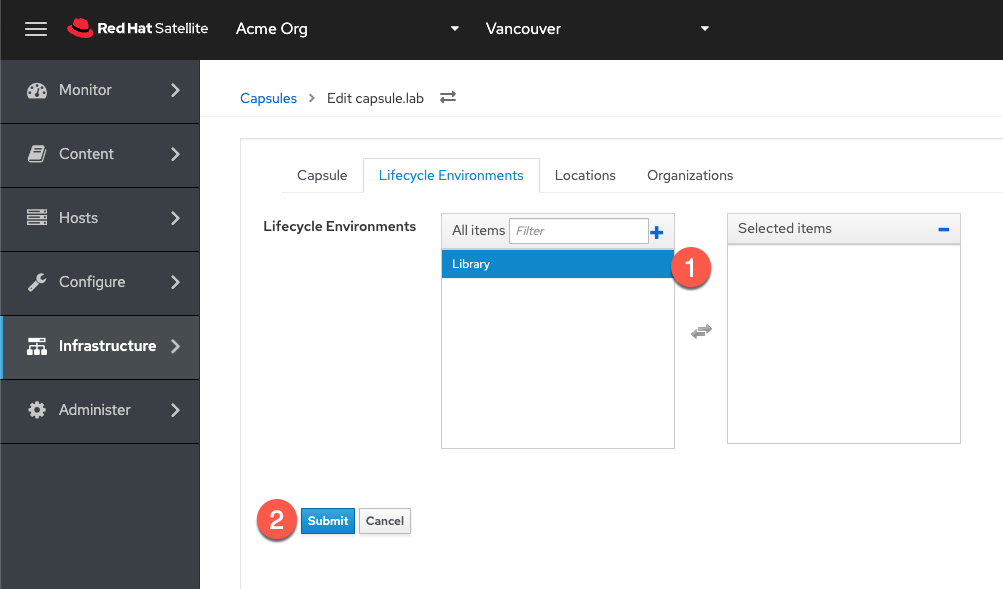
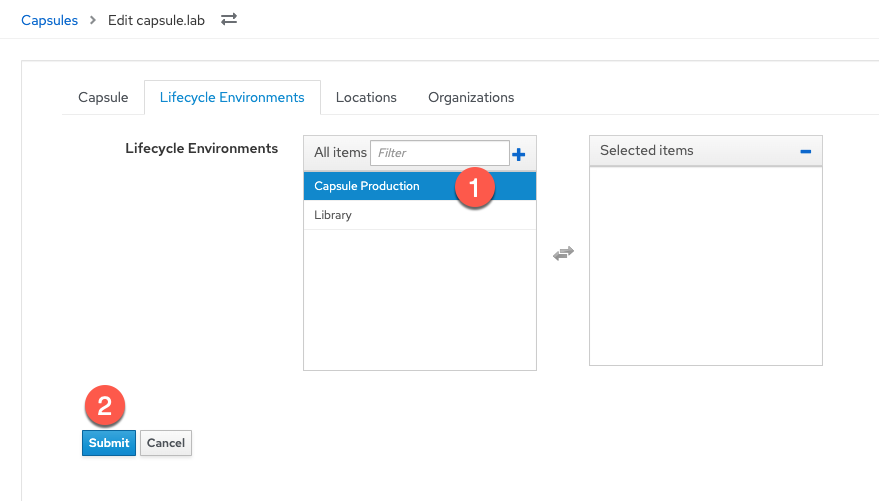
updates

diff --git a/satellite-advanced-testing/04-capsule/assignment.md b/satellite-advanced-testing/04-capsule/assignment.md
@@ -25,14 +25,14 @@ tabs:
   url: https://rhel1.${_SANDBOX_ID}.instruqt.io:9090
 difficulty: ""
 ---
-
 In this challenge, we'll configure the host `capsule.lab` as a Capsule server.
 
 Red Hat Satellite Capsule Servers mirror content from Red Hat Satellite Server to facilitate content federation across various geographical locations. Host systems can pull content from the Capsule Server and not from the central Satellite Server. The Capsule Server also provides localized services such as Puppet Master, DHCP, DNS, or TFTP. Capsule Servers assist you in scaling your Satellite environment as the number of your managed systems increases.
 
 Capsule Servers decrease the load on the central server, increase redundancy, and reduce bandwidth usage.
 
-# Synchronize the repositories containing capsule server software to the Satellite server
+Synchronize the repositories containing capsule server software to the Satellite server
+========================================================================================
 
 We need to provide the following repositories to the capsule server.
 
@@ -145,7 +145,8 @@ ansible-playbook capsulerepos.yml
 
 The RHEL 8 repositories were synchronized in the background of this lab. The synchronization step should only take a few seconds.
 
-# Register the Capsule host with Satellite.
+Register the Capsule host with Satellite.
+=========================================
 
 First, register the host `capsule` with satellite.
 
@@ -158,7 +159,8 @@ hammer host-registration generate-command --insecure 1 --setup-insights 0 --forc
 
 Copy the output of this command from the `Satellite Server` terminal, paste it into the `Capsule` terminal, and run it.
 
-# Update the `capsule.lab` host.
+Update the capsule.lab host.
+============================
 
 In the `Capsule` terminal, run the following.
 
@@ -170,7 +172,8 @@ The `Capsule` terminal will lose connection with the host during reboot. To reco
 
 ![reconnect](../assets/refreshcapsuleterminal.png)
 
-# Configure the repositories on the Capsule host.
+Configure the repositories on the Capsule host.
+===============================================
 
 To install the capsule software, we have to configure the correct repositories. Run the following command in the `Capsule` terminal to disable repos.
 
@@ -193,7 +196,8 @@ Enable the satellite module.
 dnf module enable satellite-capsule:el8 -y
 ```
 
-# Install the capsule software.
+Install the capsule software.
+=============================
 
 Run the following command to install the capsule software.
 
@@ -201,7 +205,8 @@ Run the following command to install the capsule software.
 dnf install satellite-capsule -y
 ```
 
-# Export the Default SSL Certificate from the Satellite server
+Export the Default SSL Certificate from the Satellite server
+============================================================
 
 On the **Satellite server**, in the `Satellite Server` terminal, create a directory to store the SSL certificate.
 
@@ -233,7 +238,8 @@ scp -o StrictHostKeyChecking=no /root/capsule_cert/capsule.lab-certs.tar capsule
 
 ![scp cert](../assets/scpcerts.png)
 
-# Import the default certificate into the Capsule server
+Import the default certificate into the Capsule server
+======================================================
 
 As per the instructions from the output of the `capsule-cert-generate`, copy, paste and run the `satellite-installer` command in the `Capsule` terminal.
 
@@ -245,7 +251,8 @@ Here's what the output should look like.
 
 ![capsulecopy](../assets/capsuleop.gif)
 
-# Configure lifecycle environment and content views
+Configure lifecycle environment and content views
+=================================================
 
 At present, the capsule server `capsule.lab` cannot provide any software. To do so, we must synchronize metadata to `capsule.lab`, that is, information about the software and repositories available to `satellite.lab`. It is possible to synchronize all metadata and software packages to `capsule.lab` but it can take a lot of time and consume a lot of storage. We control the synchronization of software repositories to capsule servers through lifecycle environments.
 
@@ -259,51 +266,60 @@ To read more about lifecycle environments, please refer to the official document
 
 To read more about content views, please refer to the official documentation [here](https://access.redhat.com/documentation/en-us/red_hat_satellite/6.14/html/managing_content/managing_content_views_content-management).
 
-## Create a lifecycle environment
+Copy and paste the following playbook into the `Satellite Server` terminal.
 
-Navigate to `Lifecycle Environments`.
+```
+tee ~/capsulesync.yml << EOF
+---
+- name: Configure a lifecycle environment and a content view.
+  hosts: localhost
+  remote_user: root
 
-![lce](../assets/LCEmenu.png)
+  tasks:
+  - name: "Create the Capsule Production lifecycle environment"
+    redhat.satellite.lifecycle_environment:
+      username: "admin"
+      password: "bc31c9a6-9ff0-11ec-9587-00155d1b0702"
+      server_url: "https://satellite.lab"
+      organization: "Acme Org"
+      name: "Capsule Production"
+      label: "capsule_production"
+      prior: "Library"
+      state: "present"
 
-Click on `Create Environment Path`.
+  - name: "Create RHEL9 content view"
+    redhat.satellite.content_view:
+      username: "admin"
+      password: "bc31c9a6-9ff0-11ec-9587-00155d1b0702"
+      server_url: "https://satellite.lab"
+      organization: "Acme Org"
+      name: "RHEL9"
+      repositories:
+        - name: 'Red Hat Enterprise Linux 9 for x86_64 - BaseOS RPMs 9'
+          product: 'Red Hat Enterprise Linux for x86_64'
 
-![createlce](../assets/createlcepath.png)
+  - name: "Publish a content view and promote that version to Capsule Production LCE, not idempotent"
+    redhat.satellite.content_view_version:
+      password: "bc31c9a6-9ff0-11ec-9587-00155d1b0702"
+      server_url: "https://satellite.lab"
+      organization: "Acme Org"
+      username: "admin"
+      content_view: "RHEL9"
+      lifecycle_environments:
+        - "Capsule Production"
+EOF
+```
 
-Do the following.
+Run the playbook.
 
-1. Name the LCE.
-2. Click `Save`.
+```
+ansible-playbook capsulesync.yml
+```
 
-![cappro](../assets/capsuleproductionlce.png)
+This playbook creates the LCE named "Capsule Production" and the content view "RHEL9" which contains the RHEL9 BaseOS repository.
 
-## Create a content view
-
-Navigate to `Content Views`.
-
-![cvs](../assets/cvs.png)
-
-Click `Create content view`.
-
-![createcv](../assets/createcontentview.png)
-
-Do the following.
-
-1) Name the content view.
-2) Click `Create content view`
-
-![create rhel 9 cv](../assets/createrhel9cv.png)
-
-You'll be taken to the `Repositories` tab of the content view you just created. Click on the `Clear filters` button to view all repositories that can be added to this content view.
-
-![clear](../assets/clearfilters.png)
-
-Do the following.
-
-1) Select `RHEL9 BaseOS` repository. We won't add additional repos in order to save time.
-2)
-
-# Configure `satellite.lab` to replicate the `Library` lifecycle environment to `capsule.lab`
-
+Configure satellite.lab to replicate the Capsule Production lifecycle environment to capsule.lab
+================================================================================================
 In the `Satellite Web UI`, navigate to the capsule menu.
 
 ![capsule menu](../assets/capsulemenu.png)
@@ -322,12 +338,20 @@ Click on `Lifecycle Environments`.
 
 ![capsule edit](../assets/capsuleconfiglifecycleenv.png)
 
-Configure `satellite.lab` to synchronize the `Library` lifecycle environment to `capsule.lab`.
+Configure `satellite.lab` to synchronize the `Capsule Production` lifecycle environment to `capsule.lab`.
 
-1. Click on `Library`.
+1. Click on `Capsule Production`.
 2. Click `Submit`.
 
+Click on `capsule.lab`.
+
+![capsule server](../assets/capsulelabinmenu.png)
+
 ![config lce](../assets/clicklibrary.png)
+
+Click on `Optimized Sync` to synchronize repo metadata to the capsule.
+
+![opt sync](../assets/optimizedsync.png)
 
 **A note about the configuration:**
 
@@ -335,7 +359,8 @@ Configure `satellite.lab` to synchronize the `Library` lifecycle environment to 
 
 We left the `Download Policy` on the default setting of `On Demand`. This means that metadata will be synchronized to the capsule server but the software will only be synchronized on demand, when a host makes the request to the capsule server to install software.
 
-# [Optional]Synchronize software with the capsule server and migrate `rhel1`.
+Optional - Synchronize software with the capsule server and migrate rhel1.
+==========================================================================
 
 The following operation is time consuming due to resource constraints on the capsule server and the size of the repositories.
 Do the following.

diff --git a/satellite-advanced-testing/03-rex-pull-mode/assignment.md b/satellite-advanced-testing/03-rex-pull-mode/assignment.md
@@ -90,21 +90,32 @@ __Note:__ There is currently no support for changing this port to a different po
 Configure jobs to be sent through the capsule service that the host was registered to
 =====================================================================================
 
-In pull-mqtt mode, hosts subscribe for job notifications to the Capsule through which they are registered. Therefore, it is recommended to ensure that Satellite Server sends remote execution jobs to that same Capsule.
+The following setting enables hosts to receive REX jobs through the satellite or capsule server they were registered through.
 
-Go to the `Settings` menu.
+Copy and run this in the `Satellite Server` terminal.
 
-![settings rex](../assets/rexpullsettings.png)
+```
+tee ~/rexsetting.yml << EOF
+---
+- name: Configure Satellite 6.14
+  hosts: localhost
+  remote_user: root
 
-Click on the `Content` tab.
+  tasks:
+  - name: "Set REX preferred through registered server."
+    redhat.satellite.setting:
+      username: "admin"
+      password: "bc31c9a6-9ff0-11ec-9587-00155d1b0702"
+      server_url: "https://satellite.lab"
+      name: "remote_execution_prefer_registered_through_proxy"
+      value: "true"
+EOF
+```
 
-![content tab](../assets/contenttab.png)
-
-Change the value of `Prefer registered through Capsule for remote execution` parameter to yes.
-
-![prefer capsule](../assets/prefercapsule.png)
-
-This option configures satellite to send REX requests through the capsule server the host was registered to. Although there are no configured capsule servers, this option prevents confusing behaviour where REX requests may be routed through the satellite server.
+Run the playbook.
+```
+ansible-playbook rexsetting.yml
+```
 
 Migrate the `rhel1` host to REX pull mode
 =========================================
@@ -172,10 +183,26 @@ Configure Satellite to automatically configure REX pull mode when registering ne
 At present, Satellite will register hosts in REX push mode by default. We'll need to set a new Global Parameter to enable pull mode by default, with a global parameter. In the `Satellite Server` terminal, enter the following command.
 
 ```
-hammer global-parameter set --parameter-type string --name host_registration_remote_execution_pull --value true
+tee ~/rexdefault.yml << EOF
+---
+- name: Configure Satellite 6.14
+  hosts: localhost
+  remote_user: root
+
+  tasks:
+  - name: "Set global parameter to default REX pull mode."
+    redhat.satellite.global_parameter:
+      username: "admin"
+      password: "bc31c9a6-9ff0-11ec-9587-00155d1b0702"
+      server_url: "https://satellite.lab"
+      name: "host_registration_remote_execution_pull"
+      value: "true"
+      parameter_type: boolean
+      state: present
+EOF
 ```
 
-This command creates a global parameter `host_registration_remote_execution_pull` with the value of `true`.
+This playbook creates a global parameter `host_registration_remote_execution_pull` with the value of `true`.
 
 You can check to see this parameter was successfully created by navgating to the `Global Parameters` menu.
 
@@ -191,8 +218,7 @@ Unregister the host `rhel1`.
 In the `Satellite server` terminal run the following command.
 
 ```
-ssh -o "StrictHostKeyChecking no" rhel1 "subscription-manager unregister" && hammer host delete --name rhel1
-
+ssh -o "StrictHostKeyChecking no" rhel1 "subscription-manager unregister" && hammer host delete --name rhel1 && ssh -o "StrictHostKeyChecking no" rhel1 "dnf remove -y katello-pull-transport-migrate"
 ```
 
 This command is run to remove `rhel1` from the satellite server so that we can register it again to show REX pull mode is automatically enabled.
